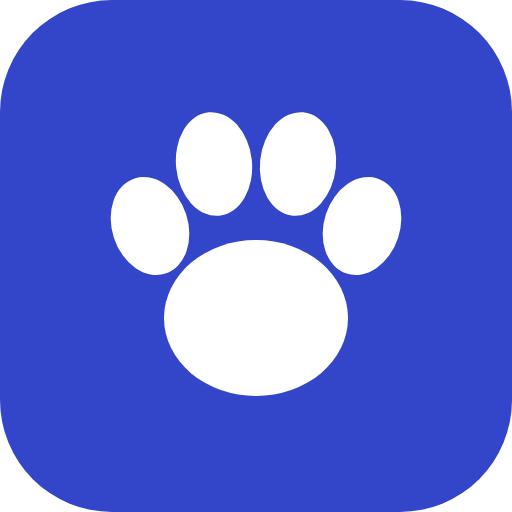
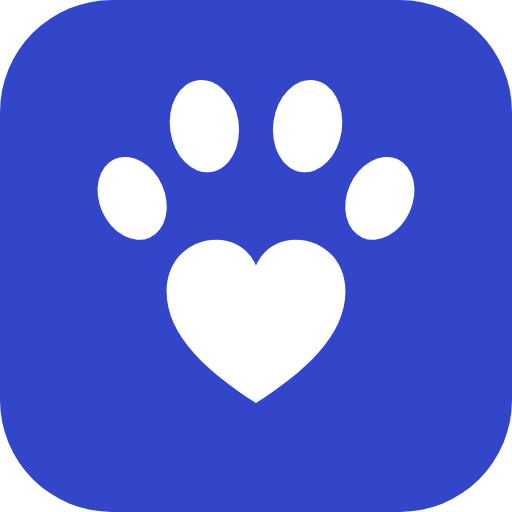
Logó, magasabb mobil menü, kilógó dátum- és időmezők javítása
- Új logó: mancs szív alakú párnával; az oldalsávban, a mobil fejlécben,
  a belépési oldalakon és az app ikonjain
- Az alsó menü magasabb, nagyobb ikonokkal és jelölt aktív elemmel
- iOS-en a dátum- és időmezők nem lógnak ki a tárolójukból

Claude-Session: https://claude.ai/code/session_01Rs13TraMPR91Px4Jmb6kUH

Changed region(s): [[0.1875, 0.1562, 0.8125, 0.7812]]

diff --git a/src/app/(app)/layout.tsx b/src/app/(app)/layout.tsx
@@ -1,3 +1,5 @@
+import Link from "next/link";
+import { Logo, LogoMark } from "@/components/logo";
 import { BottomNav, SideNav } from "@/components/nav";
 import { PetSwitcher } from "@/components/pet-switcher";
 import { ServiceWorkerRegister } from "@/components/push-settings";
@@ -12,15 +14,20 @@ export default async function AppLayout({ children }: { children: React.ReactNod
   return (
     <div className="md:flex">
       <aside className="sticky top-0 hidden h-dvh w-60 shrink-0 flex-col gap-6 border-r border-border px-4 py-5 md:flex">
-        <p className="px-3 text-xl font-bold tracking-tight text-link">kutyabajom</p>
+        <Link href="/" aria-label="Kutyabajom főoldal" className="px-2">
+          <Logo size={34} />
+        </Link>
         {switcher}
         <SideNav />
       </aside>
       <div className="min-w-0 flex-1">
-        <header className="sticky top-0 z-20 flex h-16 items-center border-b border-border bg-surface/95 px-4 backdrop-blur md:hidden">
+        <header className="sticky top-0 z-20 flex h-16 items-center justify-between border-b border-border bg-surface/95 px-4 backdrop-blur md:hidden">
           {switcher}
+          <Link href="/" aria-label="Kutyabajom főoldal" className="flex size-10 items-center justify-center rounded-xl bg-primary text-on-primary">
+            <LogoMark size={28} />
+          </Link>
         </header>
-        <main className="mx-auto w-full max-w-5xl px-4 pb-28 pt-5 md:px-8 md:pb-12 md:pt-8 [&>*:not(.wide)]:mx-auto [&>*:not(.wide)]:max-w-2xl">{children}</main>
+        <main className="mx-auto w-full max-w-5xl px-4 pb-32 pt-5 md:px-8 md:pb-12 md:pt-8 [&>*:not(.wide)]:mx-auto [&>*:not(.wide)]:max-w-2xl">{children}</main>
       </div>
       <BottomNav />
       <ServiceWorkerRegister />

diff --git a/src/components/logo.tsx b/src/components/logo.tsx
@@ -1,0 +1,30 @@
+// A Kutyabajom logója: mancs, amelynek a nagy párnája szív (kutya + gondoskodás).
+export function LogoMark({ size = 32, className = "" }: { size?: number; className?: string }) {
+  return (
+    <svg viewBox="0 0 512 512" width={size} height={size} className={className} aria-hidden="true" fill="currentColor">
+      <g transform="translate(256 262) translate(-256 -280)">
+        <ellipse cx="112" cy="206" rx="38" ry="50" transform="rotate(-24 112 206)" />
+        <ellipse cx="196" cy="122" rx="40" ry="54" transform="rotate(-8 196 122)" />
+        <ellipse cx="316" cy="122" rx="40" ry="54" transform="rotate(8 316 122)" />
+        <ellipse cx="400" cy="206" rx="38" ry="50" transform="rotate(24 400 206)" />
+        <path d="M256 444 C 200 408 152 366 152 314 C 152 278 178 254 210 254 C 232 254 248 266 256 284 C 264 266 280 254 302 254 C 334 254 360 278 360 314 C 360 366 312 408 256 444 Z" />
+      </g>
+    </svg>
+  );
+}
+
+export function Logo({ size = 32, className = "" }: { size?: number; className?: string }) {
+  return (
+    <span className={`flex items-center gap-2 ${className}`}>
+      <span
+        className="flex shrink-0 items-center justify-center rounded-[28%] bg-primary text-on-primary"
+        style={{ width: size, height: size }}
+      >
+        <LogoMark size={size * 0.72} />
+      </span>
+      <span className="font-semibold tracking-tight" style={{ fontSize: size * 0.62 }}>
+        kutya<span className="font-extrabold text-link">bajom</span>
+      </span>
+    </span>
+  );
+}

diff --git a/src/components/nav.tsx b/src/components/nav.tsx
@@ -30,11 +30,13 @@ export function BottomNav() {
             key={href}
             href={href}
             aria-current={active ? "page" : undefined}
-            className={`flex h-16 flex-col items-center justify-center gap-1 text-[11px] ${
+            className={`flex h-[72px] flex-col items-center justify-center gap-1 text-xs ${
               active ? "font-semibold text-link" : "font-medium text-text-muted"
             }`}
           >
-            <Icon size={22} strokeWidth={1.8} aria-hidden="true" />
+            <span className={`flex h-8 w-14 items-center justify-center rounded-full ${active ? "bg-primary-soft" : ""}`}>
+              <Icon size={24} strokeWidth={1.8} aria-hidden="true" />
+            </span>
             {label}
           </Link>
         );

diff --git a/src/app/globals.css b/src/app/globals.css
@@ -233,3 +233,18 @@ body {
 .scale-range[data-empty="true"] {
   --fill: var(--border-strong);
 }
+
+/* iOS Safari a dátum- és időmezőknek saját minimális szélességet ad, ezért
+   kilógnak a tárolójukból; így mindig kitöltik a rendelkezésre álló helyet. */
+input[type="date"],
+input[type="time"] {
+  -webkit-appearance: none;
+  appearance: none;
+  min-width: 0;
+  max-width: 100%;
+  display: block;
+}
+input[type="date"]::-webkit-date-and-time-value,
+input[type="time"]::-webkit-date-and-time-value {
+  text-align: left;
+}

diff --git a/src/app/(auth)/layout.tsx b/src/app/(auth)/layout.tsx
@@ -1,7 +1,11 @@
+import { Logo } from "@/components/logo";
+
 export default function AuthLayout({ children }: { children: React.ReactNode }) {
   return (
     <main className="mx-auto flex min-h-dvh w-full max-w-sm flex-col justify-center px-5 py-10">
-      <p className="mb-8 text-center text-2xl font-bold tracking-tight text-link">kutyabajom</p>
+      <div className="mb-8 flex justify-center">
+        <Logo size={44} />
+      </div>
       {children}
     </main>
   );
